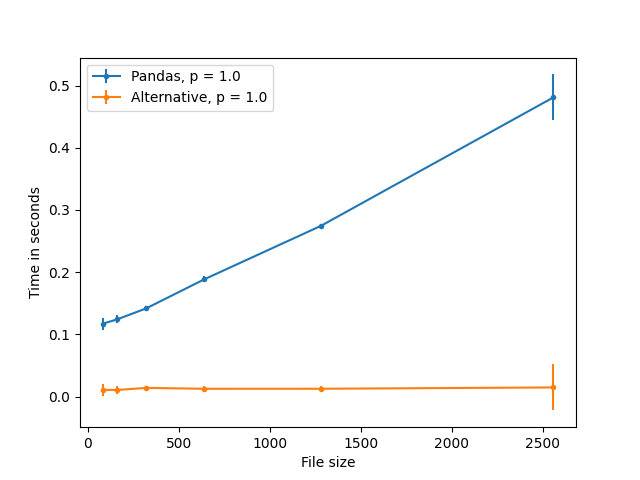
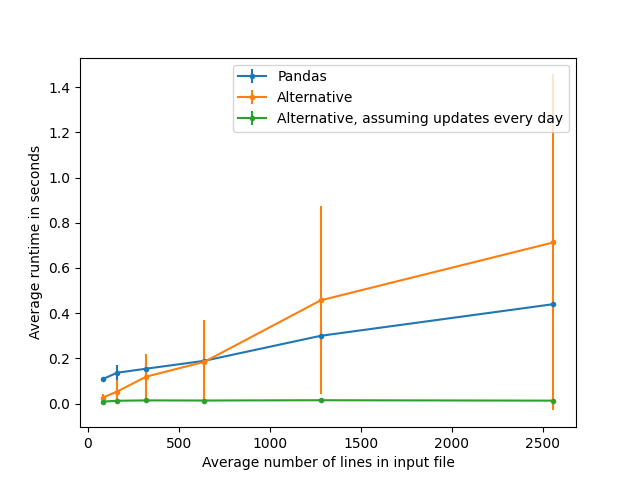
Improving scaling plot

diff --git a/profiling/plot_scaling.py b/profiling/plot_scaling.py
@@ -16,55 +16,61 @@ scaling of the two methods: pandas or alternative.
 """
 
 timeit_iterations = 10
-avg_iterations = 10
+avg_iterations = 100
 
 fig, ax = plt.subplots()
 
-for prob in [1.0]:
+n_list = [2**n for n in range(4, 10)]
 
-    n_list = [2**n for n in range(4, 10)]
+n_avg = np.zeros(len(n_list))
+pandas_avg = np.zeros(len(n_list))
+pandas_std = np.zeros(len(n_list)) 
+alternative_avg = np.zeros(len(n_list))
+alternative_std = np.zeros(len(n_list)) 
+alternative2_avg = np.zeros(len(n_list))
+alternative2_std = np.zeros(len(n_list)) 
 
-    n_avg_list = []
-    pandas_avg_list = []
-    pandas_std_list = []
-    alternative_avg_list = []
-    alternative_std_list = []
+for (i, n) in enumerate(n_list):
 
-    for n in n_list:
+    # take the average over several generated input files
+    ns = np.zeros(avg_iterations)
+    pts = np.zeros(avg_iterations)
+    ats = np.zeros(avg_iterations)
+    a2ts = np.zeros(avg_iterations)
 
-        # take the average over several generated input files
-        nrl = []
-        pel = []
-        ael = []    
-        for i in range(avg_iterations):        
-            n_rows = generate_input(n_days=n, prob=prob)
-            # take the average over several runs
-            tp = timeit("find_winners_pandas(PATH_TO_INPUT)", 
-                number=timeit_iterations, globals=globals())
-            ta = timeit(
-                "find_winners_alternative(PATH_TO_INPUT, assume_update_every_day=True)", 
-                number=timeit_iterations, globals=globals())                
-            nrl.append(n_rows)
-            pel.append(tp)
-            ael.append(ta)
-        
-        n_avg_list.append(np.average(nrl))
-        pandas_avg_list.append(np.average(pel))
-        pandas_std_list.append(np.std(pel))
-        alternative_avg_list.append(np.average(ael))
-        alternative_std_list.append(np.std(ael))
-        
-    # delete input file
-    os.remove(PATH_TO_INPUT)
+    for j in range(avg_iterations):        
+        ns[j] = generate_input(n_days=n, prob=1.0)
+        # take the average over several runs
+        pts[j] = timeit("find_winners_pandas(PATH_TO_INPUT)", 
+            number=timeit_iterations, globals=globals())
+        ats[j] = timeit(
+            "find_winners_alternative(PATH_TO_INPUT, assume_update_every_day=False)", 
+            number=timeit_iterations, globals=globals())                
+        a2ts[j] = timeit(
+            "find_winners_alternative(PATH_TO_INPUT, assume_update_every_day=True)", 
+            number=timeit_iterations, globals=globals()) 
+    
+    n_avg[i] = np.average(ns)
+    pandas_avg[i] = np.average(pts)
+    pandas_std[i] = np.std(pts)
+    alternative_avg[i] = np.average(ats)
+    alternative_std[i] = np.std(ats)
+    alternative2_avg[i] = np.average(a2ts)
+    alternative2_std[i] = np.std(a2ts)
+    
+# delete input file
+os.remove(PATH_TO_INPUT)
 
 # plot results
-    ax.errorbar(n_avg_list, pandas_avg_list, yerr=pandas_std_list, 
-        fmt=".-", label=f"Pandas, p = {prob:.1f}")
-    ax.errorbar(n_avg_list, alternative_avg_list, yerr=pandas_std_list, 
-        fmt=".-", label=f"Alternative, p = {prob:.1f}")
+ax.errorbar(n_avg, pandas_avg, yerr=pandas_std, 
+    fmt=".-", label=f"Pandas")
+ax.errorbar(n_avg, alternative_avg, yerr=alternative_std, 
+    fmt=".-", label=f"Alternative")
+ax.errorbar(n_avg, alternative2_avg, yerr=alternative2_std, 
+    fmt=".-", label=f"Alternative, assuming updates every day")
 
-ax.set_xlabel("File size")
-ax.set_ylabel("Time in seconds")
+ax.set_xlabel("Average number of lines in input file")
+ax.set_ylabel("Average runtime in seconds")
 ax.legend()
 fig.savefig("profiling/scaling.png")
 plt.show()
